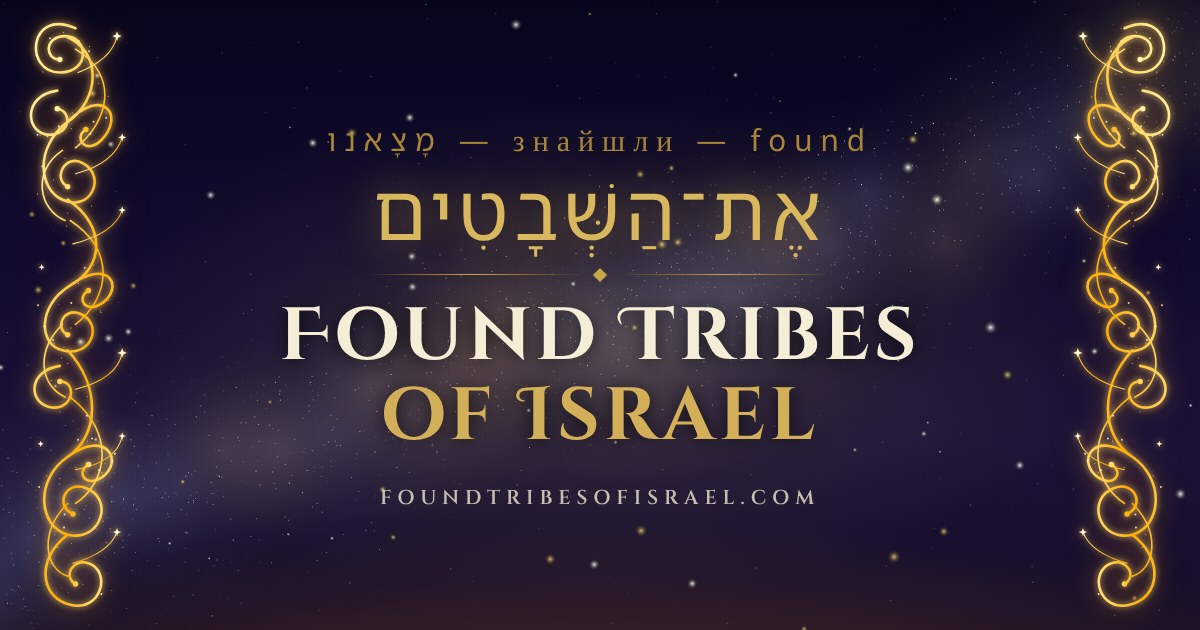
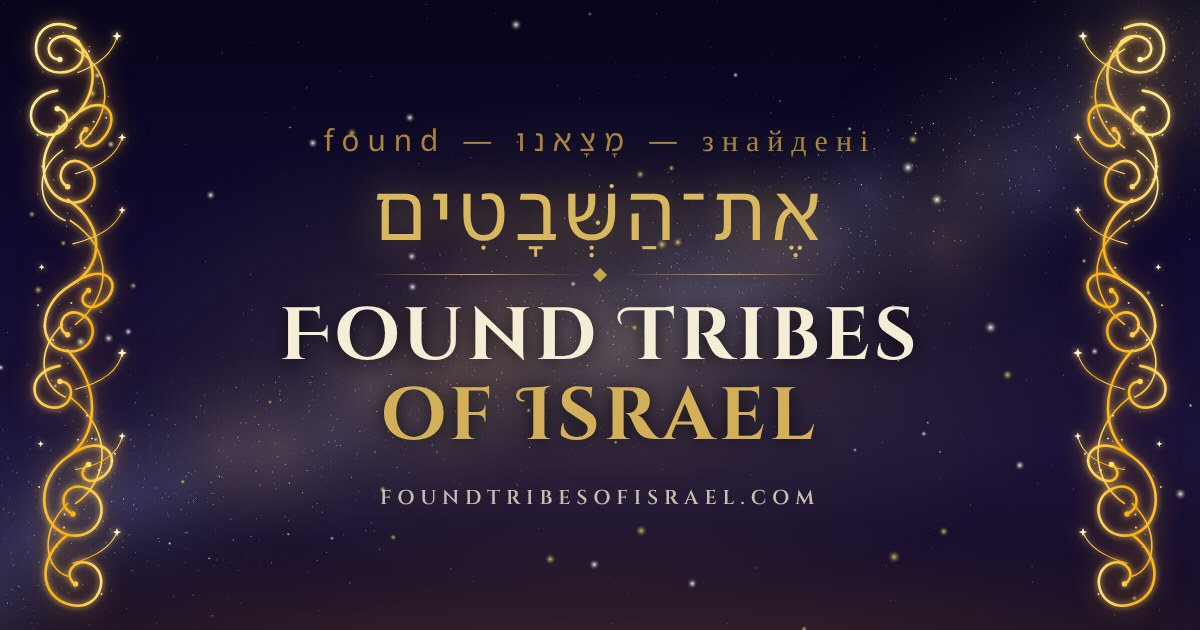
Motto reads found — מָצָאנוּ — знайдені
At the author's request the motto above the Hebrew title now has the
Hebrew word in the middle, "found" on the left and "знайдені" on the
right, on the first screen and on the share preview image.

Claude-Session: https://claude.ai/code/session_01NiAEFWX2dTcxPmdmDB2gUM

Changed region(s): [[0.4317, 0.2111, 0.74, 0.2413], [0.2467, 0.2111, 0.37, 0.2413]]

diff --git a/public/index.html b/public/index.html
@@ -577,7 +577,7 @@ nav.main-nav::before{
     <svg class="hero-defs" width="0" height="0" style="position:absolute" aria-hidden="true" focusable="false"><defs><linearGradient id="ftoiColGold" x1="0" y1="0" x2="1" y2="1"><stop offset="0%" stop-color="#fff4ad"/><stop offset="35%" stop-color="#ffd45c"/><stop offset="65%" stop-color="#ffae00"/><stop offset="100%" stop-color="#fff0a0"/></linearGradient><symbol id="ftoiColumn" viewBox="30 24 194 1136"><g fill="none" stroke="url(#ftoiColGold)" stroke-linecap="round" stroke-linejoin="round"><path vector-effect="non-scaling-stroke" stroke-width="2.6" style="stroke-width:var(--col-w1,2.6px)" d="M125 40C35 0 25 125 95 125C155 125 150 55 105 55C65 55 65 100 95 100M105 55C180 85 170 180 110 220C45 270 55 350 100 370C155 395 185 325 140 300C105 280 80 330 110 345M110 220C180 150 220 210 175 255C145 285 120 250 145 235M90 160C20 170 30 245 75 245C115 245 120 200 90 195M110 370C185 420 180 500 115 535C50 575 55 650 100 660C155 675 180 610 135 590C100 575 85 620 110 630M115 535C190 480 220 540 175 570C145 590 125 560 150 545M95 690C30 700 35 765 80 770C120 775 130 720 95 720M110 660C175 730 170 825 110 865C45 910 55 1000 110 1015C175 1030 200 945 145 925C105 910 85 960 120 975M110 865C185 810 220 875 175 905C145 925 125 895 150 880M110 1015C50 1060 55 1135 115 1150C175 1165 195 1085 150 1070C120 1060 100 1095 125 1110"/><path vector-effect="non-scaling-stroke" stroke-width="1.6" style="stroke-width:var(--col-w2,1.6px)" d="M125 80C210 130 190 220 125 270M100 275C40 315 55 390 105 410M115 410C205 470 190 560 125 610M100 610C45 665 60 730 105 750M115 750C205 820 185 915 125 955M110 955C55 1010 65 1080 110 1095"/><path vector-effect="non-scaling-stroke" stroke-width="1.1" style="stroke-width:var(--col-w3,1.1px)" d="M130 125Q195 100 205 55M125 320Q200 300 215 250M120 455Q200 435 215 390M125 735Q205 715 215 665M125 890Q205 875 215 825M120 1070Q190 1050 205 1010"/><path vector-effect="non-scaling-stroke" stroke-width="5.5" style="stroke-width:var(--col-ball,5.5px)" d="M95 100h0M110 345h0M145 235h0M90 195h0M110 630h0M150 545h0M95 720h0M120 975h0M150 880h0M125 1110h0"/></g><g fill="none" stroke-linecap="round"><path vector-effect="non-scaling-stroke" stroke="#fff3c8" stroke-width="2" style="stroke-width:var(--col-dust,2px)" opacity=".85" d="M157 830h0M170 891h0M52 245h0M147 786h0M104 976h0M201 859h0M130 832h0M154 243h0M151 84h0M53 573h0M117 569h0M175 1129h0M76 59h0M71 248h0M143 501h0M160 220h0M82 640h0M131 64h0M50 92h0M55 923h0M93 229h0M61 306h0M103 1001h0M65 614h0M196 873h0M184 212h0"/><path vector-effect="non-scaling-stroke" stroke="#ffd45c" stroke-width="1.3" style="stroke-width:var(--col-dust2,1.3px)" opacity=".7" d="M83 332h0M70 902h0M173 584h0M160 496h0M117 233h0M152 569h0M184 203h0M69 655h0M155 187h0M176 895h0M103 654h0M108 421h0M148 835h0M165 474h0M57 246h0M188 171h0M126 886h0M156 382h0M110 685h0M98 675h0M91 1039h0M170 146h0M85 1015h0M116 617h0M77 119h0M84 646h0M79 718h0M52 359h0M131 531h0M110 396h0M62 124h0M188 564h0M182 878h0M174 587h0M119 203h0M102 48h0M105 290h0M95 779h0M130 202h0M152 75h0"/></g><path fill="#fff6cf" d="M205.0 46.0L207.5 52.5 214.0 55.0 207.5 57.5 205.0 64.0 202.5 57.5 196.0 55.0 202.5 52.5ZM215.0 242.0L217.2 247.8 223.0 250.0 217.2 252.2 215.0 258.0 212.8 252.2 207.0 250.0 212.8 247.8ZM215.0 383.0L217.0 388.0 222.0 390.0 217.0 392.0 215.0 397.0 213.0 392.0 208.0 390.0 213.0 388.0ZM215.0 656.0L217.5 662.5 224.0 665.0 217.5 667.5 215.0 674.0 212.5 667.5 206.0 665.0 212.5 662.5ZM215.0 818.0L217.0 823.0 222.0 825.0 217.0 827.0 215.0 832.0 213.0 827.0 208.0 825.0 213.0 823.0ZM205.0 1002.0L207.2 1007.8 213.0 1010.0 207.2 1012.2 205.0 1018.0 202.8 1012.2 197.0 1010.0 202.8 1007.8ZM60.0 494.0L61.7 498.3 66.0 500.0 61.7 501.7 60.0 506.0 58.3 501.7 54.0 500.0 58.3 498.3ZM58.0 834.0L59.7 838.3 64.0 840.0 59.7 841.7 58.0 846.0 56.3 841.7 52.0 840.0 56.3 838.3Z"/></symbol></defs></svg>
     <svg class="hero-column left" viewBox="0 0 194 1136" aria-hidden="true" focusable="false"><use href="#ftoiColumn" width="194" height="1136"/></svg>
     <svg class="hero-column right" viewBox="0 0 194 1136" aria-hidden="true" focusable="false"><use href="#ftoiColumn" width="194" height="1136"/></svg>
-    <div class="hero-top-ornament notranslate" translate="no" style="font-family:'Noto Sans Hebrew',serif;font-size:1.4rem;color:var(--gold-dark);letter-spacing:8px;margin-bottom:6px;"><span lang="he">מָצָאנוּ</span> — знайшли — found</div>
+    <div class="hero-top-ornament notranslate" translate="no" style="font-family:'Noto Sans Hebrew',serif;font-size:1.4rem;color:var(--gold-dark);letter-spacing:8px;margin-bottom:6px;">found — <span lang="he" dir="rtl">מָצָאנוּ</span> — знайдені</div>
     <div class="hero-hebrew notranslate" lang="he" translate="no">אֶת־הַשְּׁבָטִים</div>
     <div class="gold-rule">
         <div class="gold-rule-line"></div>
